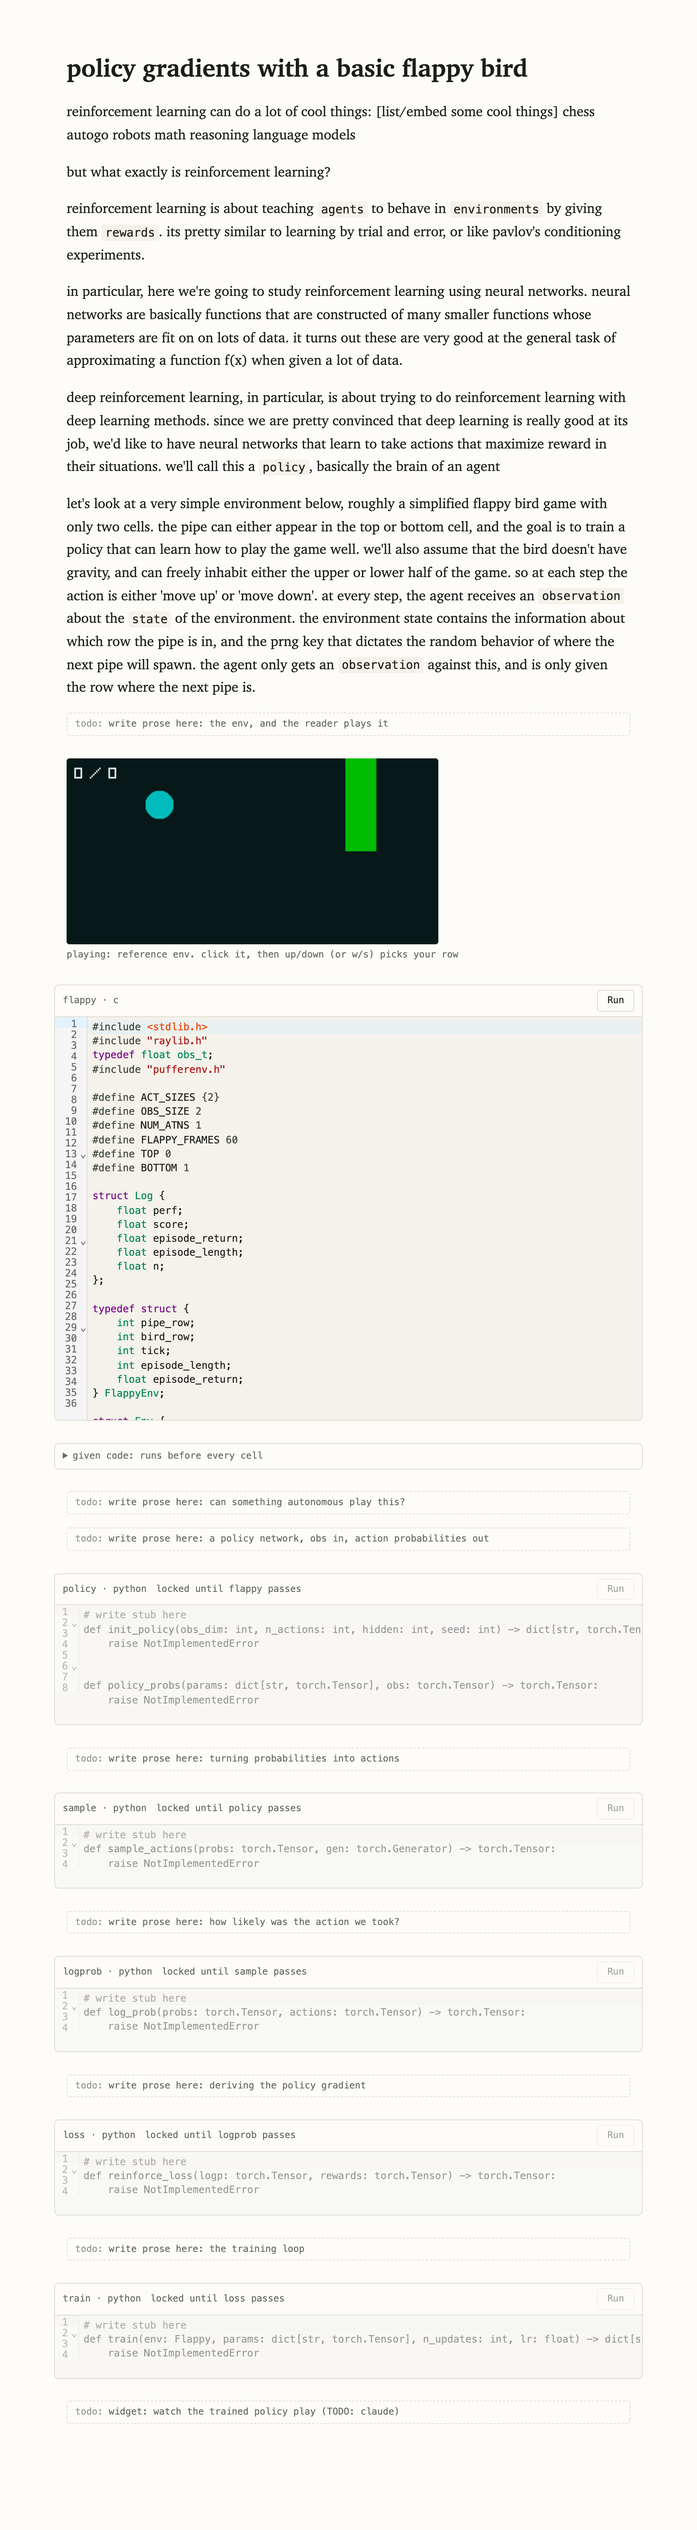
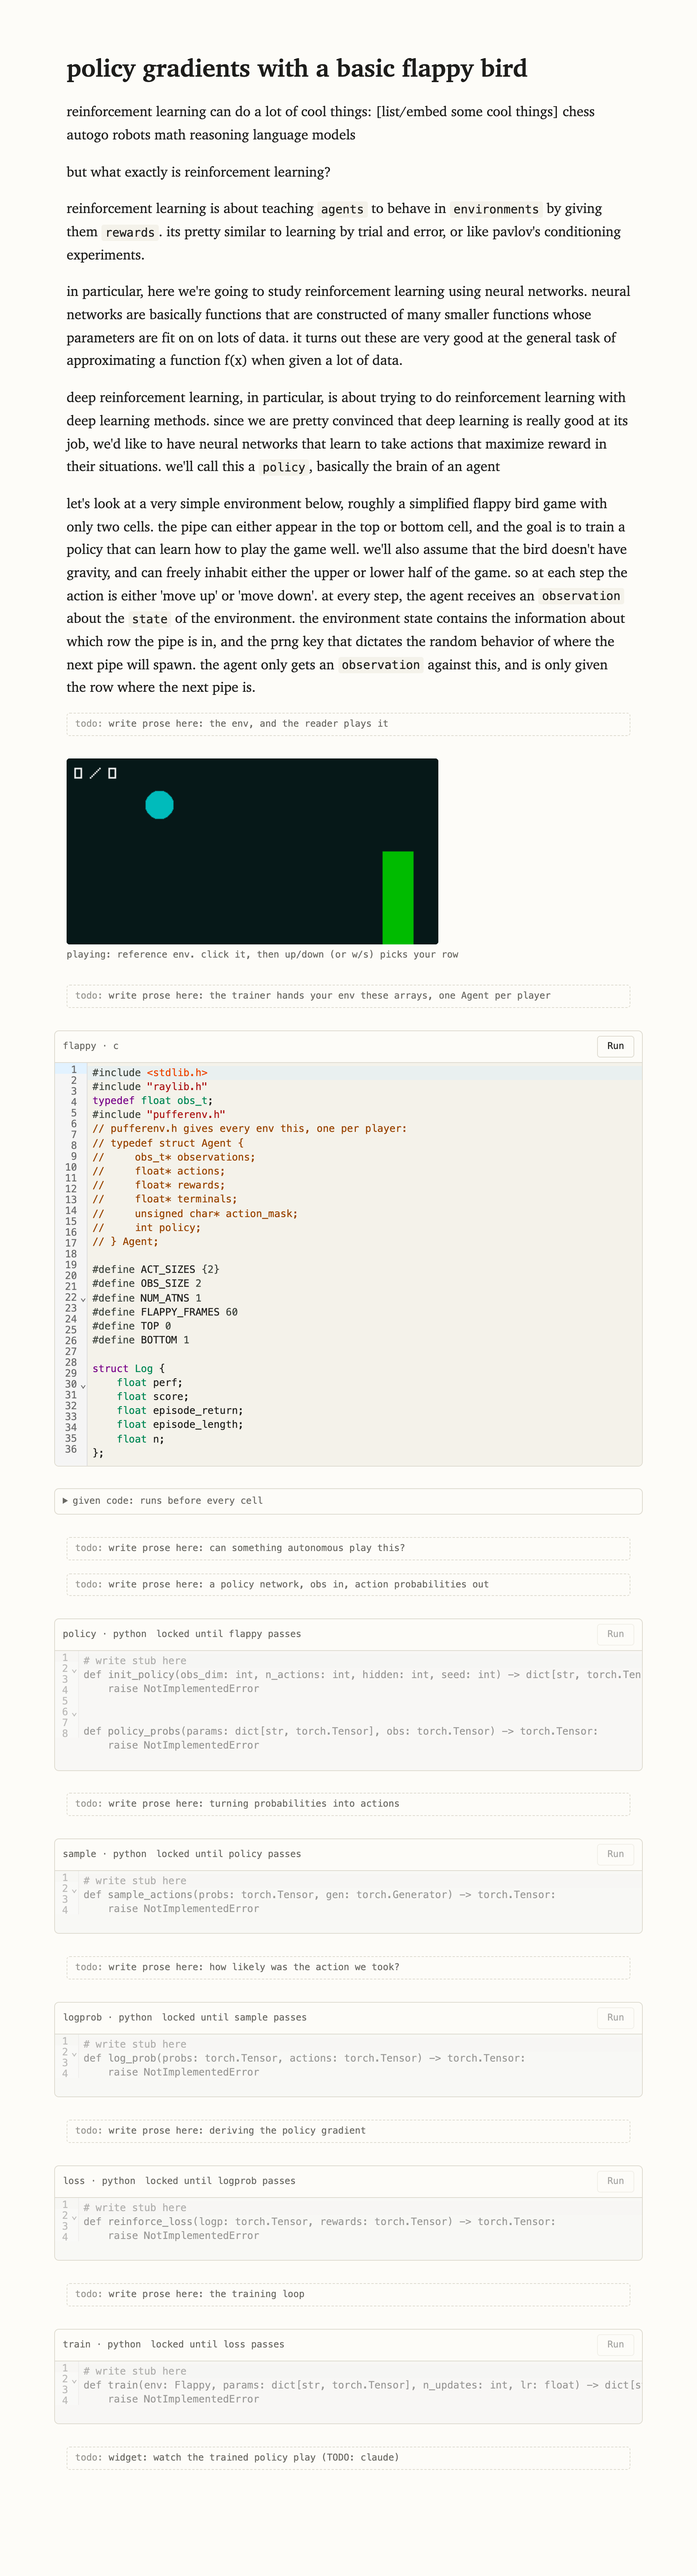
blogs: handoff reflects standalone vendoring; refreshed page-builder screenshots

diff --git a/blogs/HANDOFF.md b/blogs/HANDOFF.md
@@ -10,7 +10,6 @@ Branch `blogs/flappy`, worktree `worktrees/blogs-flappy`. The page-builder spike
    - other code shows as `...`;
    - the last level is the full solution;
    - Python uses `# hint_i`.
-3. **Shared puffer code**: see the open question below.
 
 ## Run it
 ```
@@ -42,10 +41,10 @@ rm -rf .session && uv run --with playwright verify_page.py   # headless proof, s
   - The env is compiled to wasm (emcc + raylib + puffer's `puf_web_vsync.js`, ASYNCIFY) for play and watch.
   - Human play latches keys at 1 step/s (`FLAPPY_FRAMES 60`).
   - Native vs wasm is compared on *behaviour*, not bits, because `rand_r` differs across libcs and upstream PufferLib accepts that.
+- **Standalone.** blogs vendors its own PufferLib (`vendor/pufferlib`: pufferenv.h, ini.h, puf_web_vsync.js @ 6ffa5b1) and `shim.c` (a copy of robots'), and fetches its own raylib. Nothing reads `robots/`. If the two shims diverge enough to hurt, extract then.
 - **Format and assistant.** Markdown was chosen over marimo (marimo fought the gating model and needed CSS hacks; its static build was 27 MB). pi-durable is the candidate inline assistant, deferred.
 
 ## Open questions
-- **Puffer files.** `blogs` reaches into `robots/envs/puffer/` (shim.c, pufferenv.h, ini.h, build.py, puf_web_vsync.js). Options: a shared top-level `puffer/`, copy into blogs, or keep as is. Moving it touches robots imports and `robots/box_recipe.py`, which uploads robots/.
 - **Page builder.**
   - (5) A reload restores only the last *passing* source, so unpassed edits are lost.
   - (6) When an upstream cell re-passes with different code, should downstream cells be marked stale?
